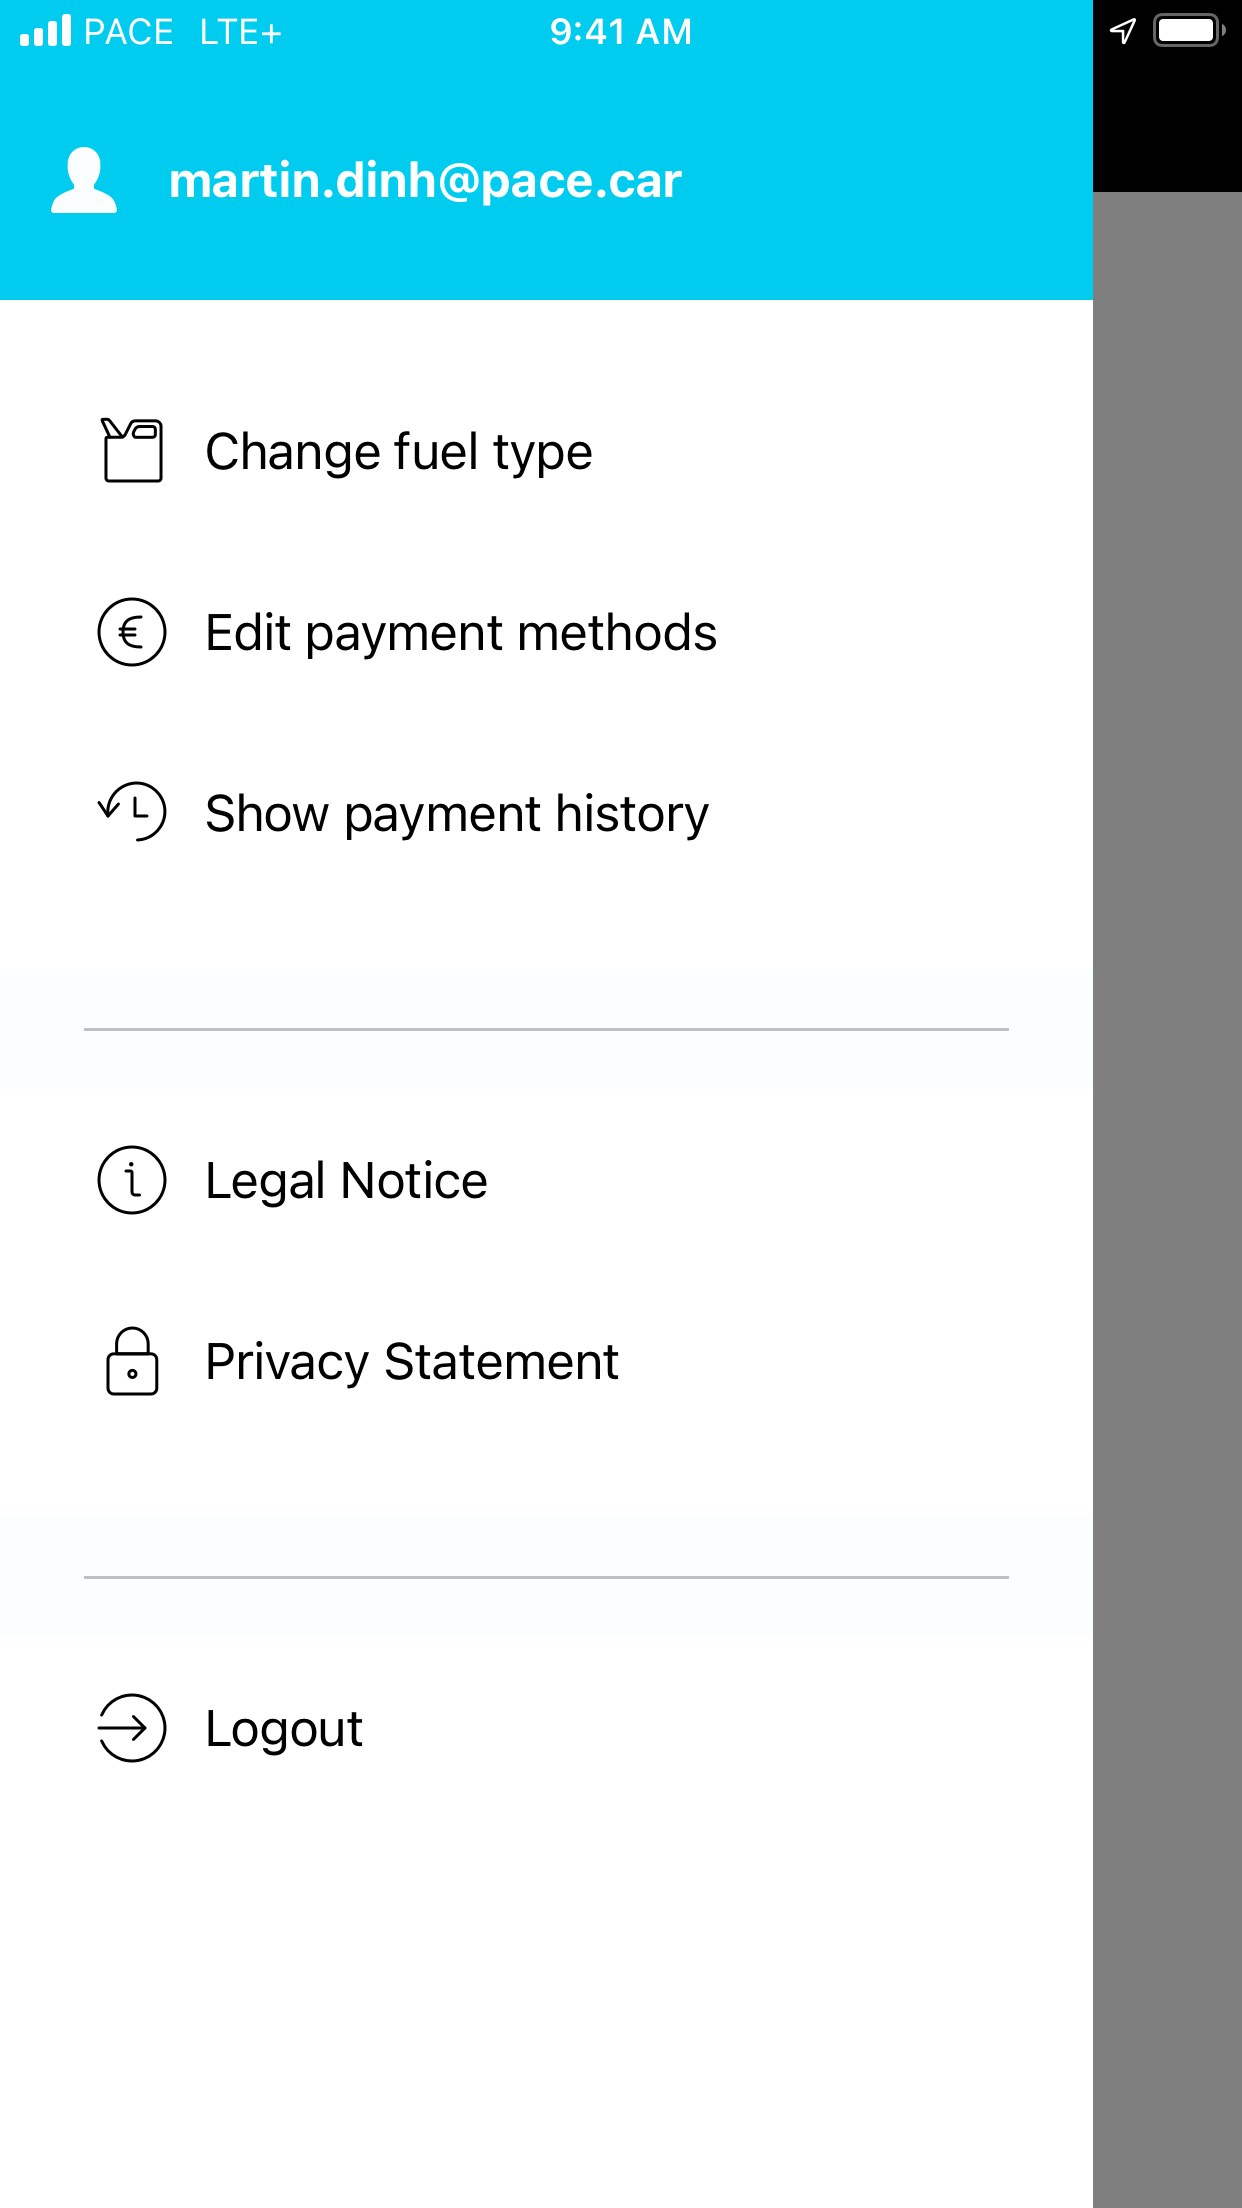
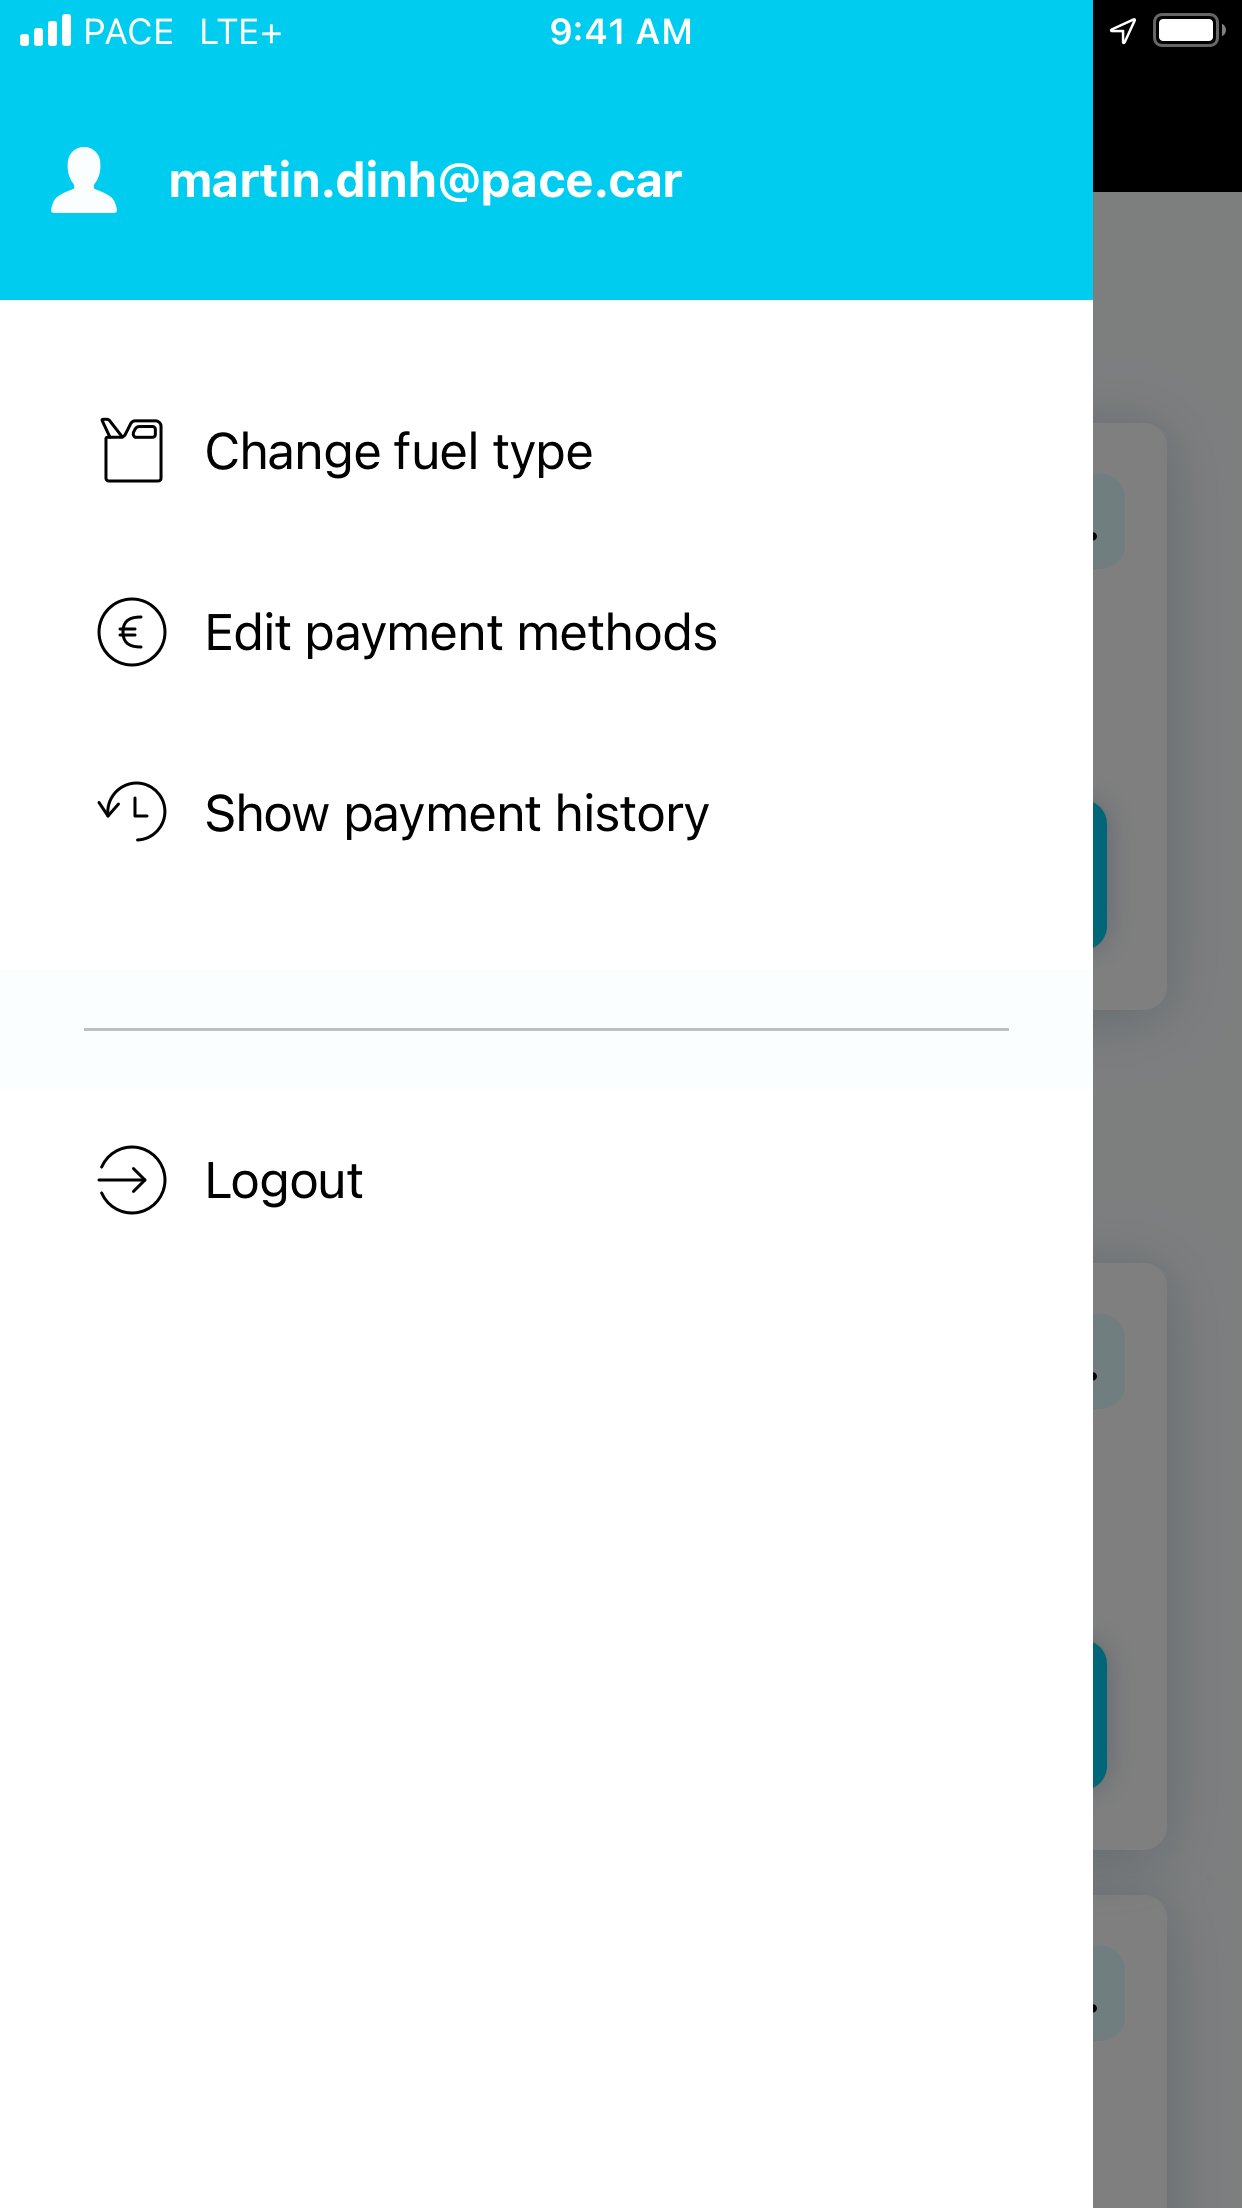
Remove privacy and terms section

diff --git a/App/Sources/Coordinators/Menu/MenuCoordinator.swift b/App/Sources/Coordinators/Menu/MenuCoordinator.swift
@@ -38,7 +38,7 @@ final class MenuCoordinator: Coordinator {
             headerImage: nil,
             sections: [
                 makeSettingsSection(),
-                makeDocumentSection(),
+//                makeDocumentSection(),
                 makeProfileSection()
             ]
         )
